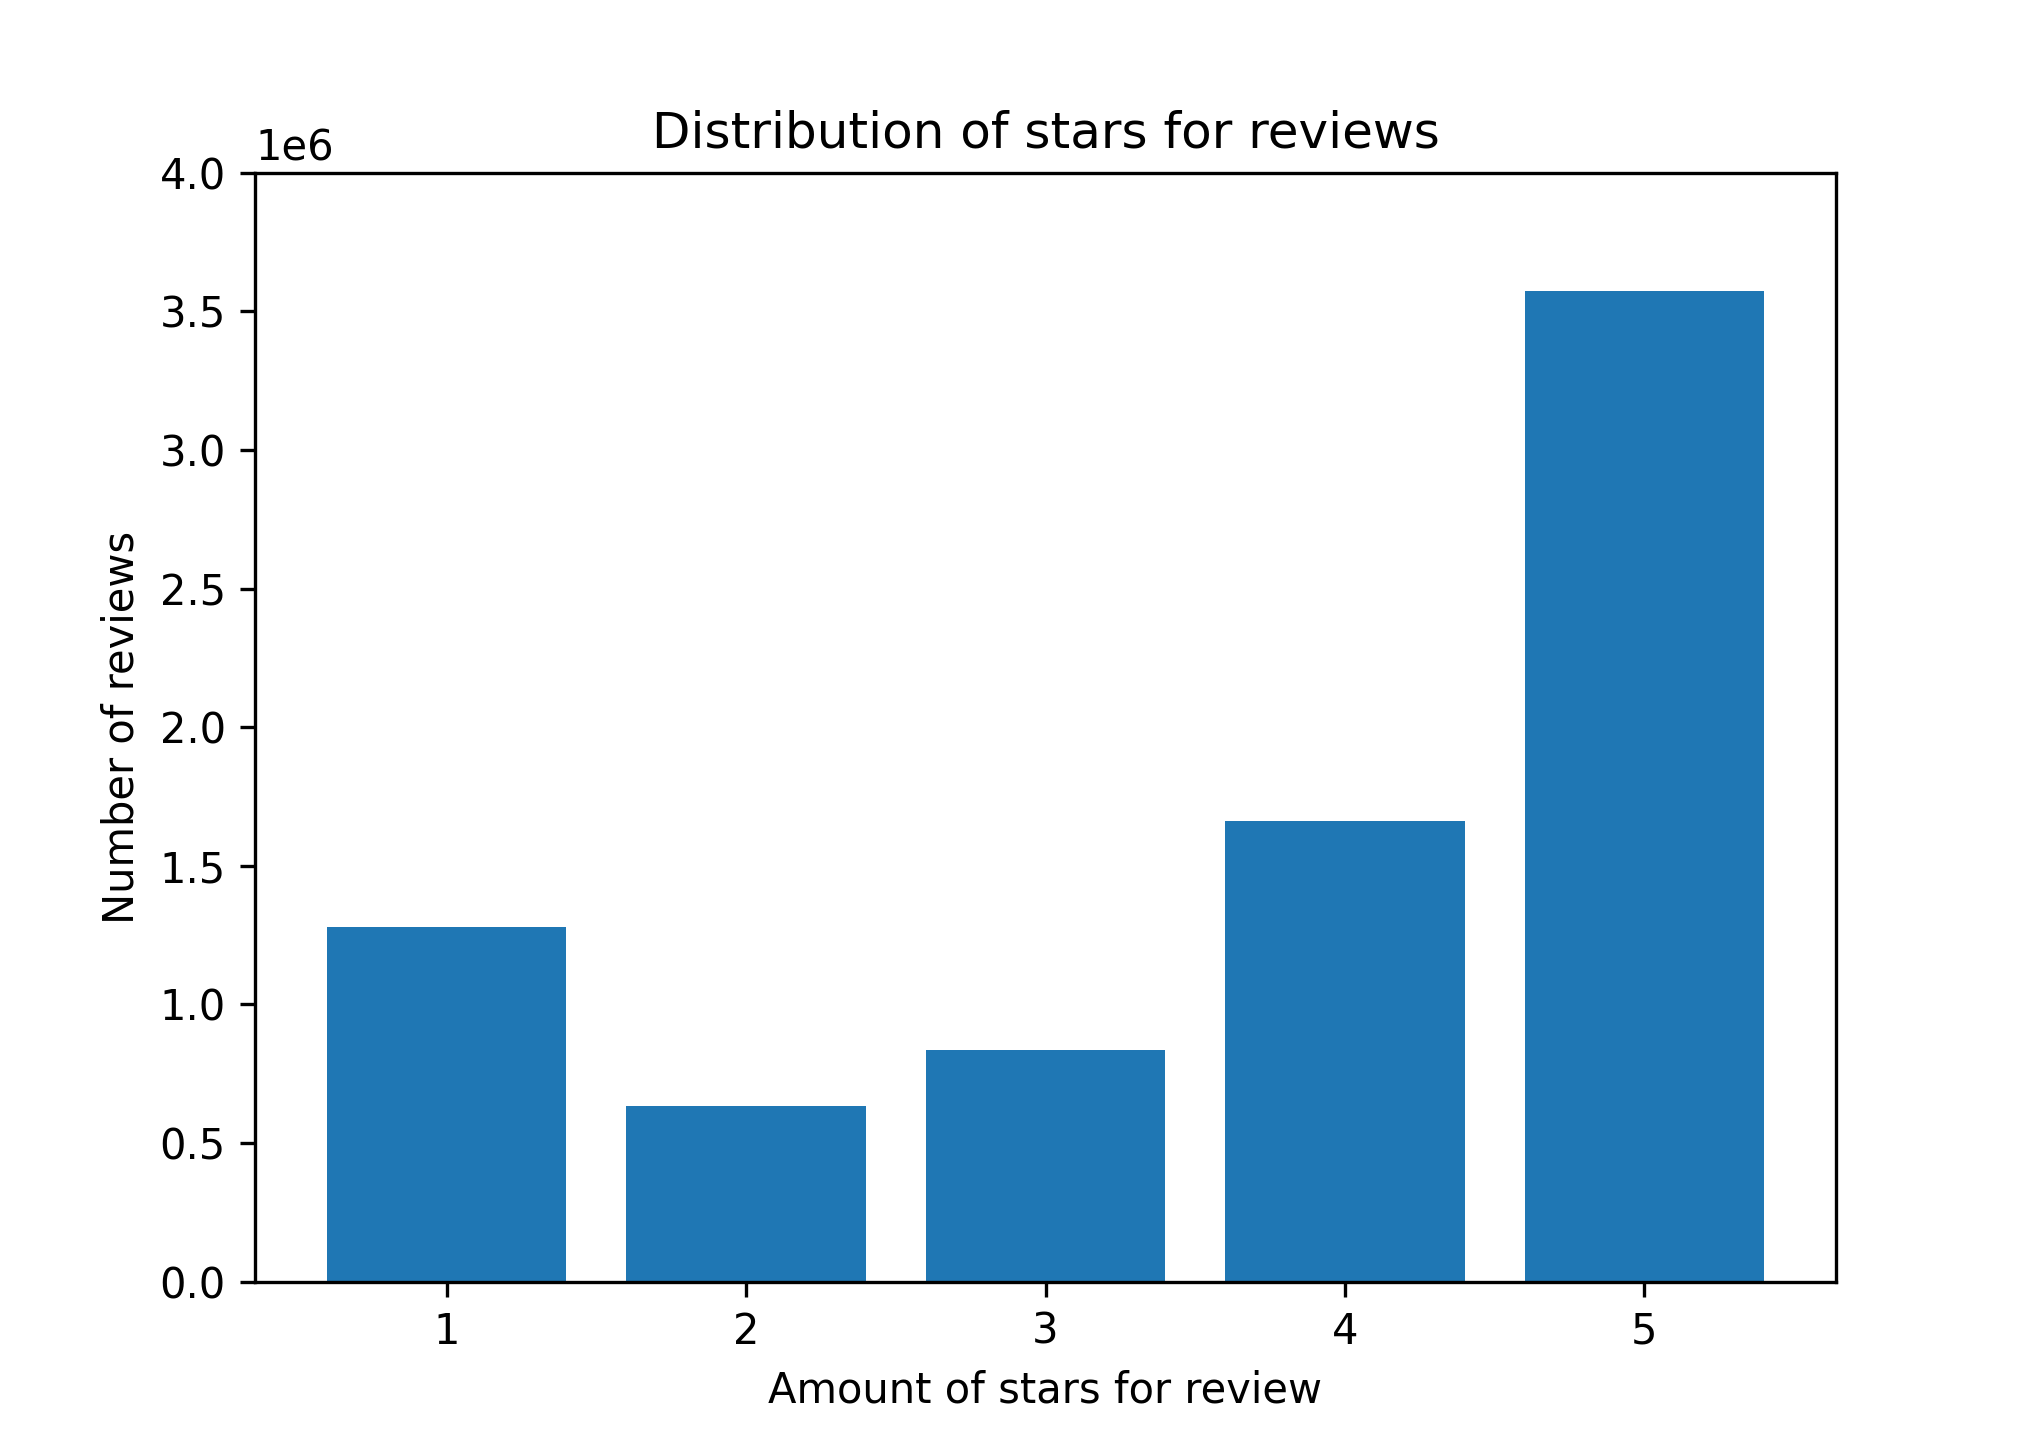
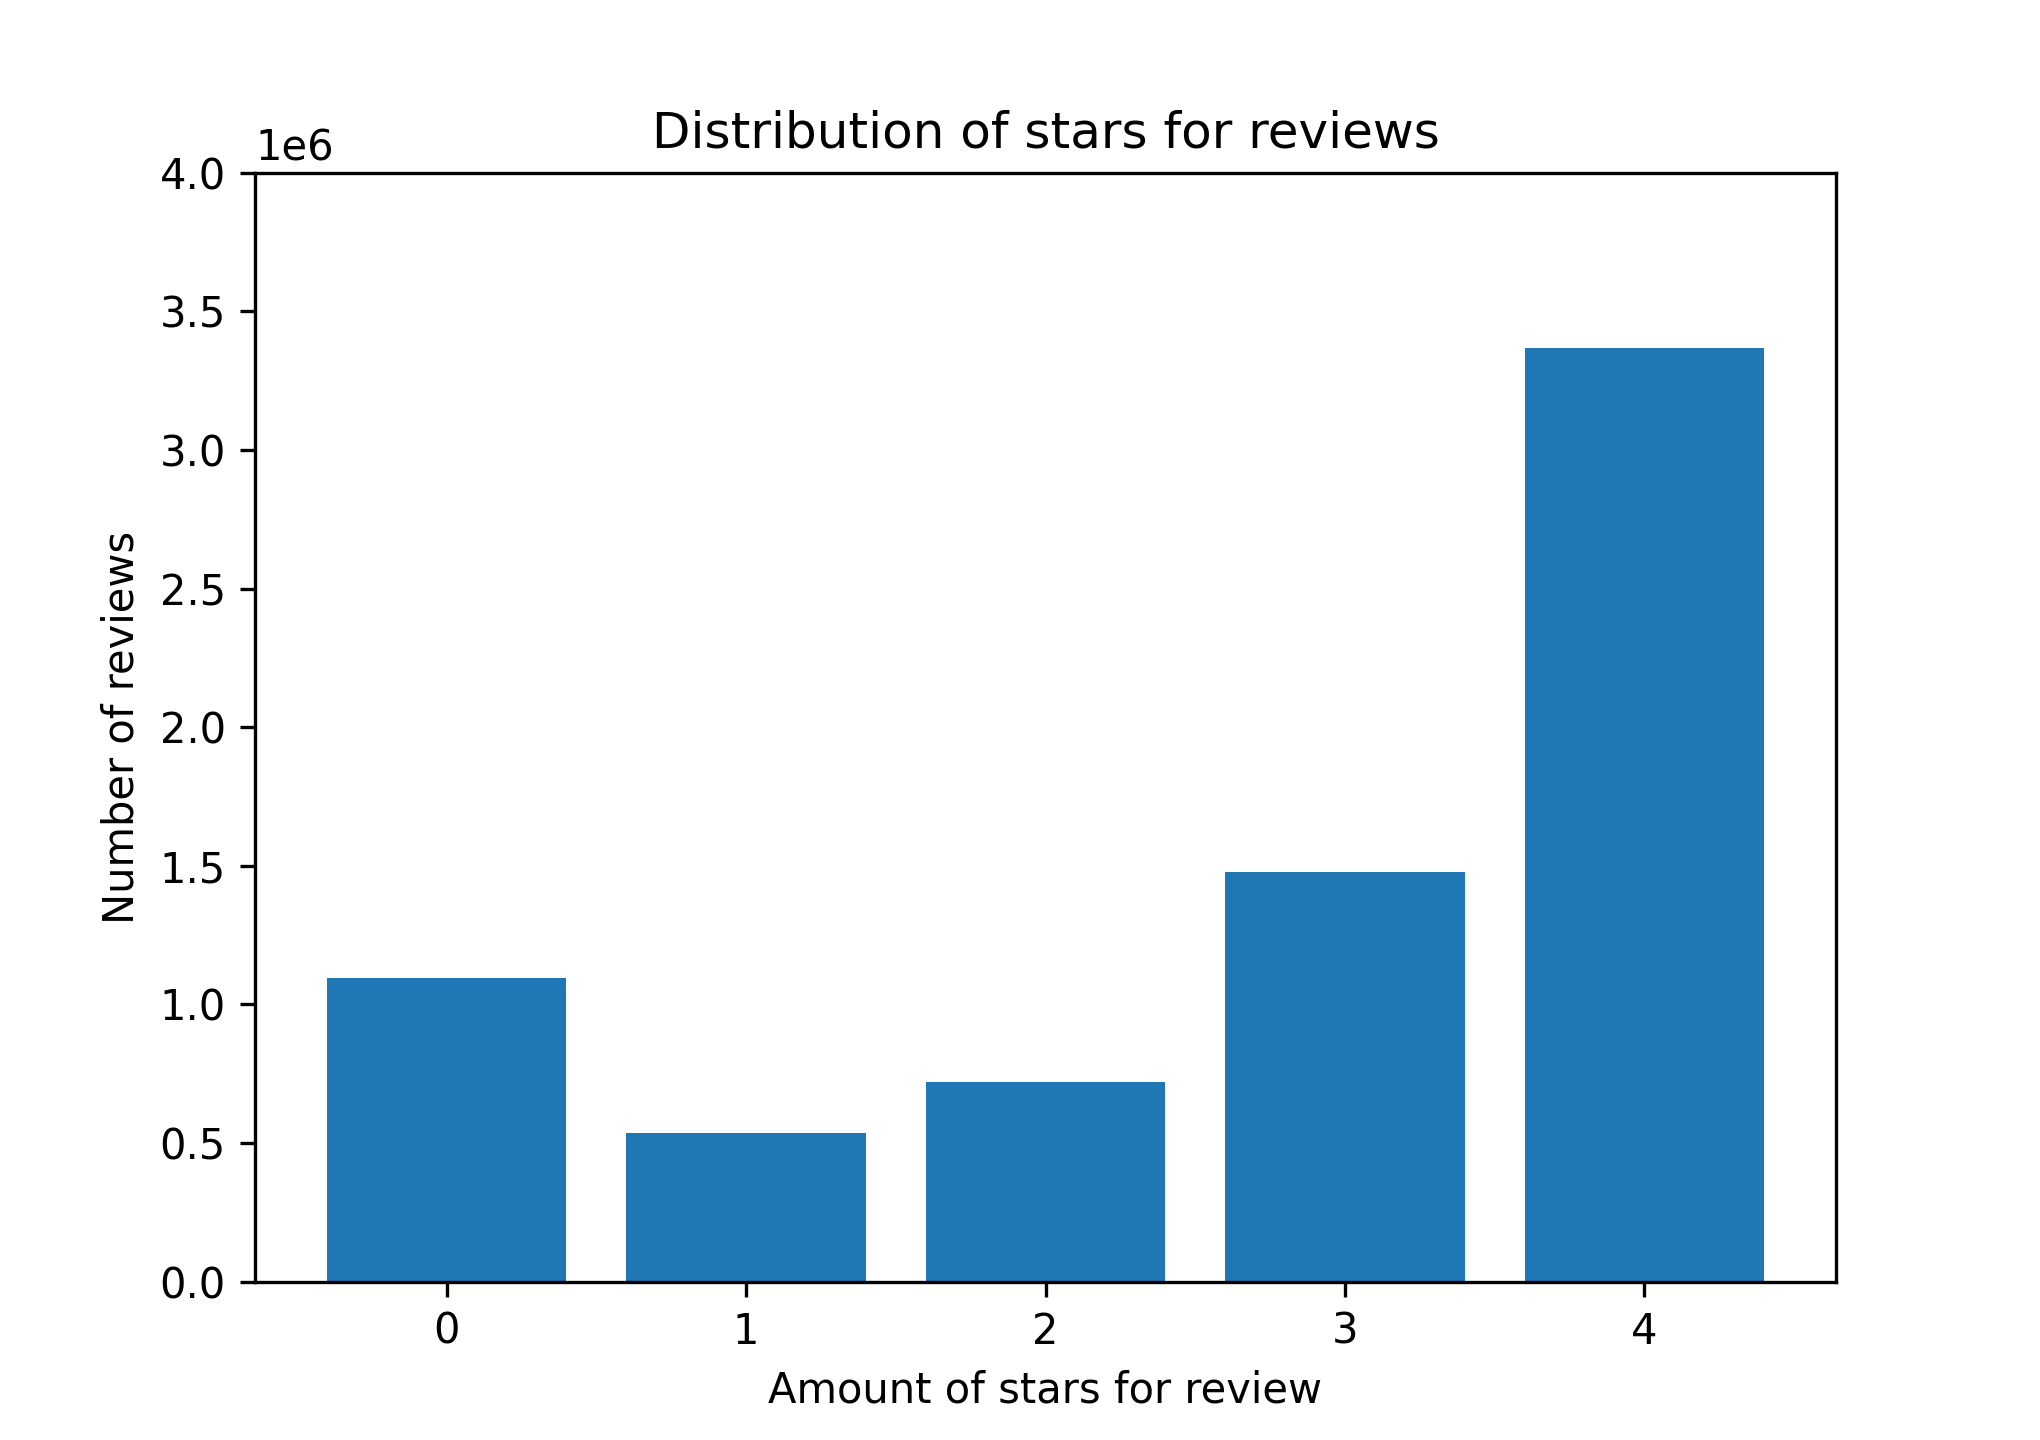
Add plots with the new data

diff --git a/Utils/create_plots.py b/Utils/create_plots.py
@@ -26,7 +26,7 @@ def plot_review_length_distribution(review_lengths):
     plt.xlabel("Amount of words for review")
     plt.ylabel("Number of reviews")
 
-    plt.savefig("Plots/Lengts_of_reviews.png", dpi=300)
+    plt.savefig("Plots/Lengths_of_reviews.png", dpi=300)
 
     plt.clf()
 
@@ -78,7 +78,7 @@ def main():
         while line and cnt < max_number_of_lines:
             cnt += 1
 
-            training, label = line.split("\", ")
+            training, label = line.split("\",")
             label = float(label)
 
             review_ratings.append(label)
